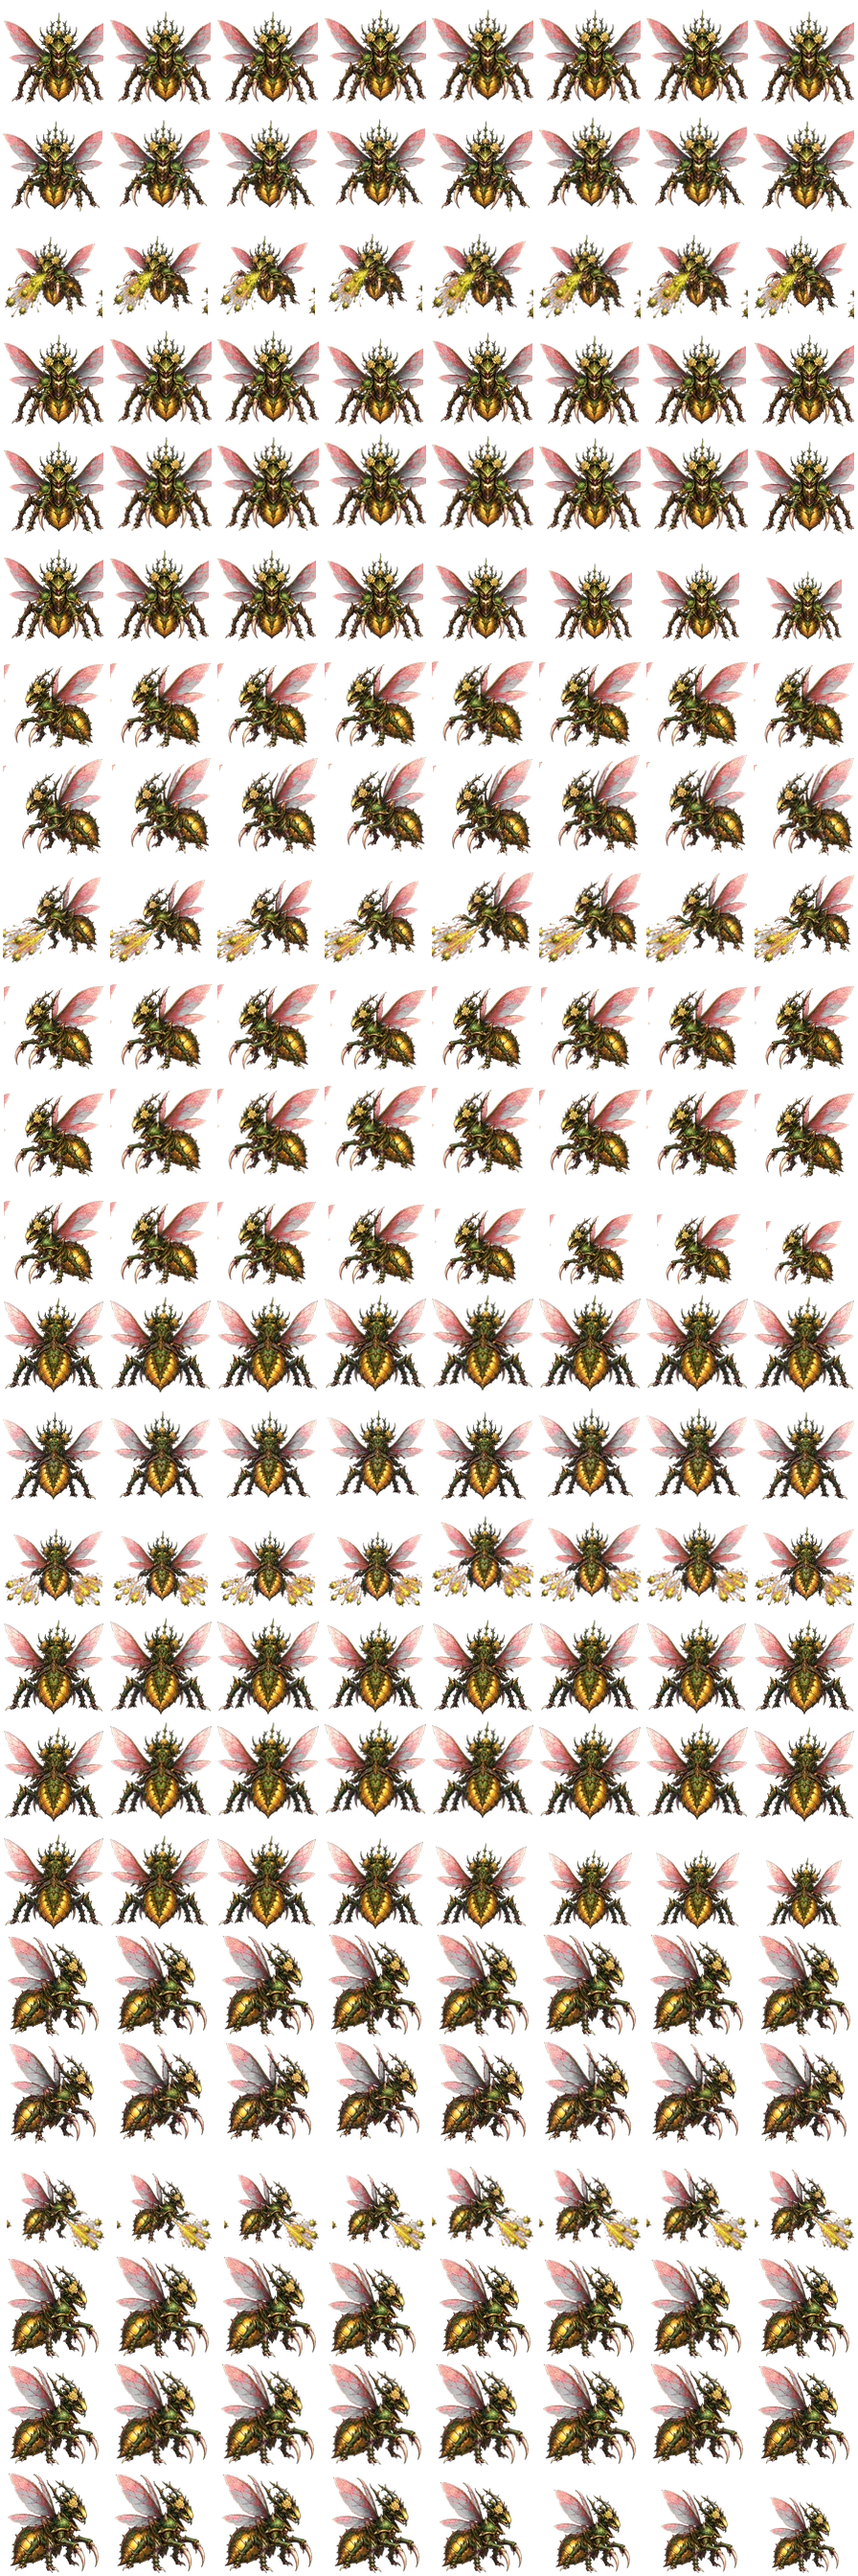
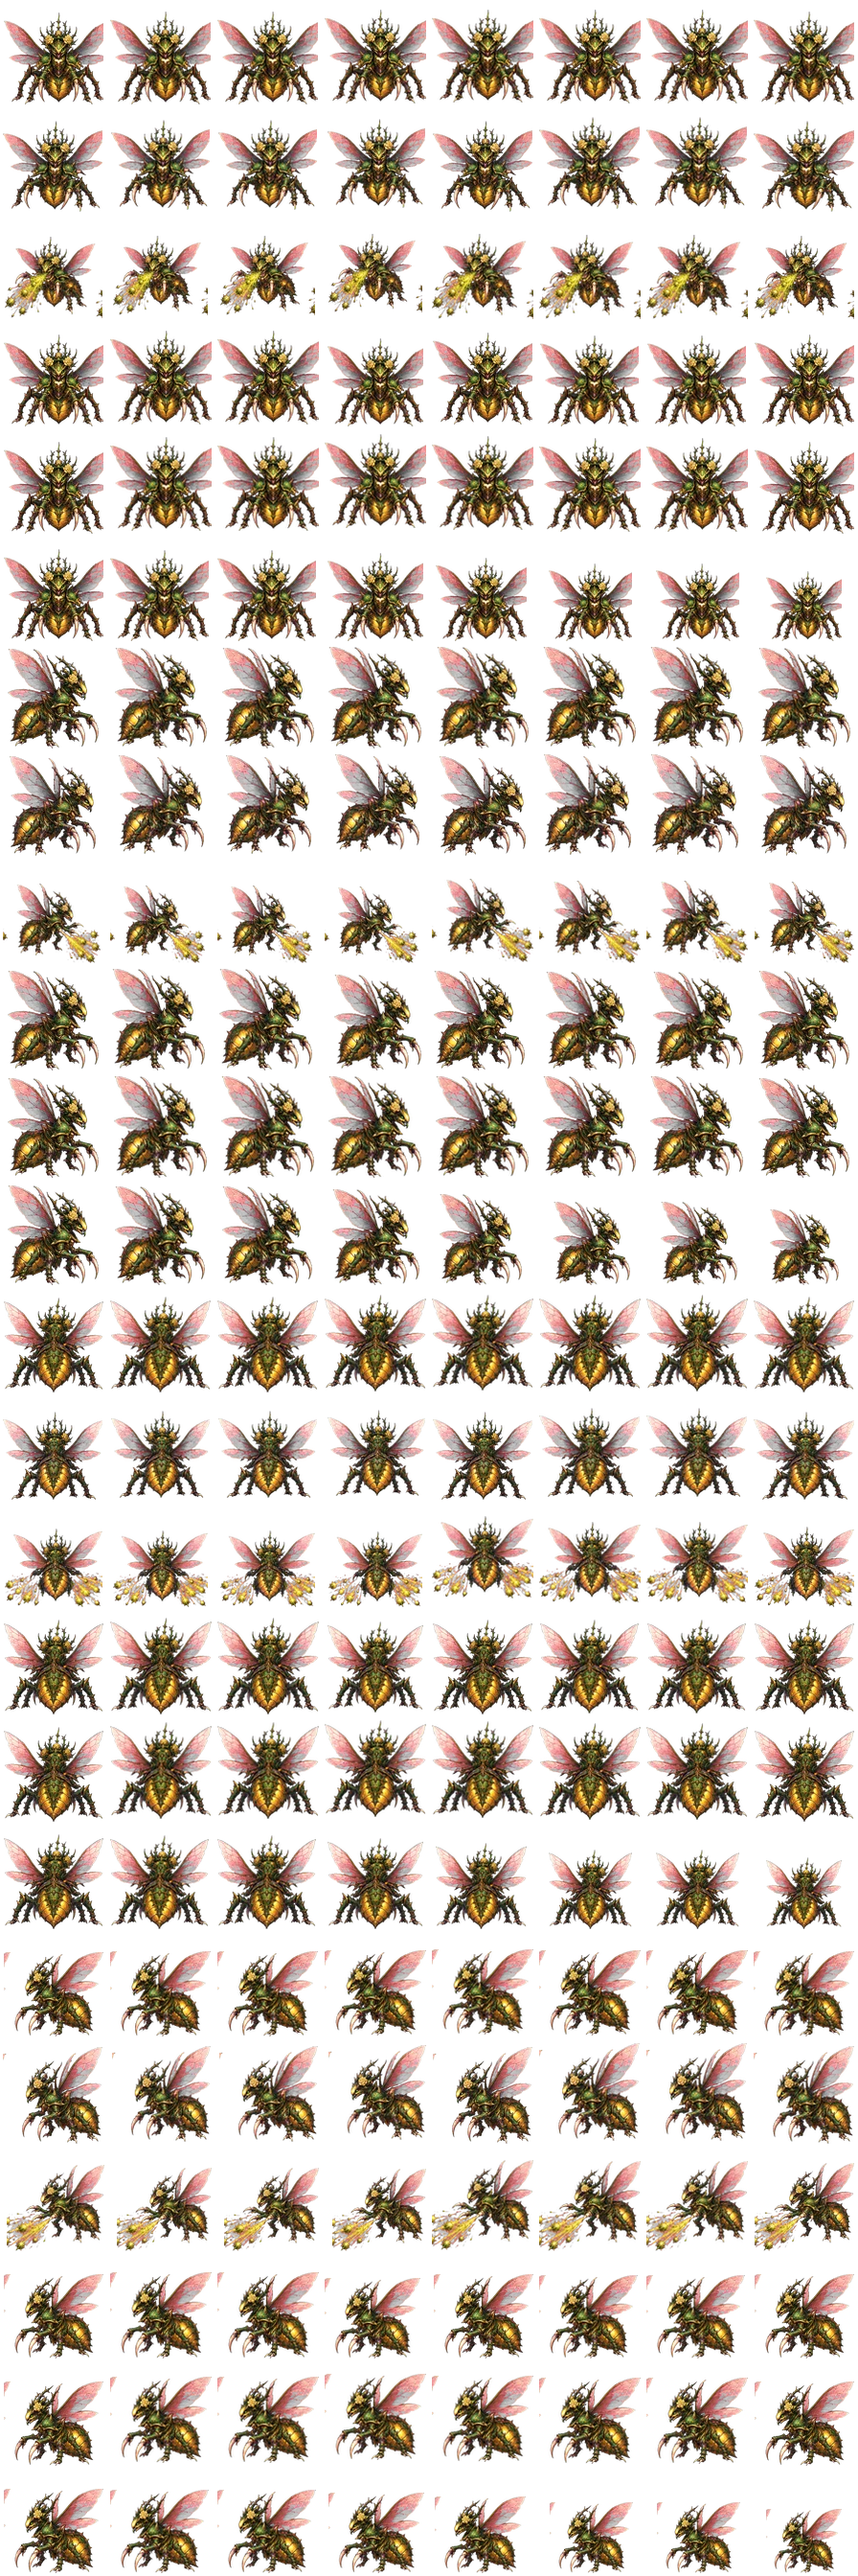
feat: minimal battle right panel; fix ch1/2 boss left-right facing
- Right side-panel now shows only the selected unit's card and its
  clickable move/attack/skill/wait actions; enemy-count header, boss
  warning panel, turn-order chips and the tutorial hint text are
  hidden there (still used elsewhere in the UI). Restart/end-turn
  moved into the battle top toolbar next to AUTO/speed controls.
- Add blightwood_sovereign (ch1 boss) and thorn_hive_queen (ch2 boss)
  to SWAPPED_SIDE_UNITS: their authored reference art used the
  character's own left/right instead of the screen's, so in battle
  they visibly faced backwards. Rebuilt just their two runtime motion
  sheets (--only), verified via check-directional-frame-bounds.py
  (43200 frames pass) — no other unit's assets touched.

Changed region(s): [[0.0, 0.75, 1.0, 1.0], [0.0, 0.25, 1.0, 0.5]]

diff --git a/js/tactics.js b/js/tactics.js
@@ -1612,8 +1612,35 @@
       forecast = '<section class="combat-forecast"><b>⚔ ' + active.p.name + ' → ' + unit.p.name + '</b><span>預估傷害 <strong>-' + estimate + '</strong>｜命中 ' + hitRate + '%</span><span>' + (multiplier > 1 ? '元素克制 ×' + multiplier : multiplier < 1 ? '元素受制 ×' + multiplier : '元素中性') + (counter ? '｜預估反擊 -' + counter : '｜無法反擊') + '</span></section>';
     } else if (unit.team === 'enemy') forecast = '<section class="combat-forecast neutral"><b>⚔ 戰術預判</b><span>先選我方幻獸再點此敵人，可查看真實傷害、命中、反擊與元素關係。</span></section>';
     dom.detail.innerHTML = '<div class="detail-head"><span class="detail-face" style="background-image:url(\'' + portrait(unit) + '\')"></span><div class="detail-title"><strong>' + unit.p.name + '</strong><small>' + elementIcon + ' ' + teamLabel + '・' + unit.p.roleLabel + '</small><span class="detail-hp"><i style="width:' + (100 * unit.hp / unit.maxHp) + '%"></i></span></div></div><div class="detail-tags"><span>' + (stage?.label || '戰鬥型態') + '</span><span>' + unitSize(unit) + '×' + unitSize(unit) + '</span><span>' + (unit.p.rarity || 'normal').toUpperCase() + '</span></div><p class="detail-passive">被動：' + passive + (statusText.length ? '<br>狀態：' + statusText.join('、') : '') + '</p>' + signature + forecast + '<div class="stat-grid"><span>力量 ' + Math.round(stat(unit, 'power')) + '</span><span>魔力 ' + Math.round(stat(unit, 'magic')) + '</span><span>防衛 ' + Math.round(stat(unit, 'defense')) + '</span><span>速度 ' + unit.p.stats.speed + '</span><span>血量 ' + unit.hp + '/' + unit.maxHp + '</span><span>移動 ' + moveRange(unit) + ' 格</span></div><h3 class="detail-skill-title">技能資訊</h3><ul class="detail-skill-list">' + skillInfo + '</ul>';
-    /* 可操作的攻擊／待機／取消移動指令改在幻獸下方的浮動小框（見 renderBattleCommand），
-       右側僅保留技能資訊參考，避免右欄擁擠。 */
+    if (unit.team !== 'ally') return;
+    unit.p.skills.forEach(function (skill, index) {
+      var button = document.createElement('button'), cooldown = unit.cooldowns[index] || 0;
+      button.className = 'skill' + (skill.kind === 'basic' ? ' basic-skill' : '') + (cooldown ? ' cooling' : ' ready') + (state.mode === 'skill' && state.skill === index ? ' active' : '');
+      button.disabled = unit.acted || cooldown > 0 || state.phase !== 'player' || state.over || state.animating;
+      var extras = (skill.status === 'freeze' ? '❄' : skill.status === 'poison' ? '☠' : skill.status === 'burn' ? '🔥' : '') + (skill.push ? '💨' : '') + (skill.pull ? '🪝' : '');
+      button.textContent = (skill.kind === 'basic' ? '⚔ 普攻．' : (index + 1) + '．') + skill.name + extras + '｜' + (skill.attackStyle === 'support' ? '輔助' : skill.attackStyle === 'area' ? '範圍' : '射程 ' + skillRange(unit, skill)) + (skill.kind === 'basic' ? '｜無冷卻' : cooldown ? '（冷卻 ' + cooldown + '）' : '');
+      button.onclick = function () { state.selected = unit.key; state.mode = 'skill'; state.skill = index; clearForecast(); audio.play('ui'); note('已選擇「' + skill.name + '」，點擊高亮的' + (skill.attackStyle === 'support' ? '我方' : '敵方') + '目標後立即施放。'); render(); }; dom.skills.appendChild(button);
+    });
+    if (state.phase === 'player' && !state.over && !unit.acted) {
+      var actions = document.createElement('div'); actions.className = 'unit-actions';
+      var move = document.createElement('button'); move.type = 'button'; move.className = 'secondary'; move.textContent = unit.moved ? '⚔ 顯示可攻擊目標' : '⌁ 直接操作'; move.disabled = state.animating;
+      move.onclick = function () { state.selected = unit.key; state.mode = 'move'; state.skill = 0; clearForecast(); audio.play('ui'); note(unit.moved ? '紅框敵人可直接點擊普攻。' : '已回到直覺操作：藍格可移動、紅框敵人可直接普攻。'); render(); };
+      actions.appendChild(move);
+      var wait = document.createElement('button'); wait.type = 'button'; wait.className = 'secondary'; wait.textContent = '🕒 待機';
+      wait.disabled = state.animating;
+      wait.onclick = function () { if (state.animating || unit.acted) return; unit.moved = true; unit.acted = true; clearForecast(); audio.play('ui'); note(unitName(unit) + ' 選擇待機。'); render(); maybeAutoEndAfterMoves(); };
+      actions.appendChild(wait);
+      if (unit.moved && unit.prevX !== undefined && !state.animating) {
+        var undo = document.createElement('button'); undo.type = 'button'; undo.className = 'secondary'; undo.textContent = '↩ 取消移動';
+        undo.onclick = function () {
+          if (state.animating || unit.acted || at(unit.prevX, unit.prevY)) return;
+          unit.x = unit.prevX; unit.y = unit.prevY; unit.moved = false; unit.prevX = undefined; unit.prevY = undefined;
+          clearForecast(); audio.play('ui'); note(unitName(unit) + ' 退回原位，可重新規劃。'); render(); focusUnit(unit, false);
+        };
+        actions.appendChild(undo);
+      }
+      dom.skills.appendChild(actions);
+    }
   }
 
   async function clickCell(x, y) {

diff --git a/tactics.html b/tactics.html
@@ -42,11 +42,11 @@
 
     <!-- 畫面二：戰鬥（獨立頁，只放戰鬥功能） -->
     <section id="screen-battle" class="screen screen-battle" hidden>
-      <header class="battle-topbar"><button id="battle-exit" class="secondary" type="button">🏳 撤退</button><b id="battle-stage-label" class="battle-stage-label">熔火裂谷</b><div class="battle-topbar-tools"><button id="auto-turn" class="auto-button" type="button">🤖 AUTO</button><button id="tower-command" class="tower-command" type="button" hidden>🛡 塔之指令</button><button id="battle-speed" class="speed-button" type="button">⚡ 1×</button><button id="animation-mode" class="speed-button" type="button" title="切換完整與快速戰鬥演出">🎬 完整</button><button id="board-zoom" class="speed-button" type="button" aria-label="切換地圖縮放">🔍 1.5×</button><div id="round-status" class="round-status">準備部署</div></div></header>
+      <header class="battle-topbar"><button id="battle-exit" class="secondary" type="button">🏳 撤退</button><b id="battle-stage-label" class="battle-stage-label">熔火裂谷</b><div class="battle-topbar-tools"><button id="auto-turn" class="auto-button" type="button">🤖 AUTO</button><button id="tower-command" class="tower-command" type="button" hidden>🛡 塔之指令</button><button id="battle-speed" class="speed-button" type="button">⚡ 1×</button><button id="animation-mode" class="speed-button" type="button" title="切換完整與快速戰鬥演出">🎬 完整</button><button id="board-zoom" class="speed-button" type="button" aria-label="切換地圖縮放">🔍 1.5×</button><button id="restart" class="secondary speed-button" type="button">↺ 重新開始</button><button id="end-turn" class="primary speed-button" type="button">結束本回合</button><div id="round-status" class="round-status">準備部署</div></div></header>
       <div class="battle-main">
         <aside class="battle-ally-panel" aria-label="我方戰隊資訊"><div class="battle-side-head"><b>◆ 我方戰隊</b><span id="battle-ally-count">0 / 0</span></div><div id="battle-ally-list" class="battle-ally-list"></div><div id="battle-team-trait" class="team-trait battle-team-trait"></div><small id="battle-objective" class="battle-objective">戰鬥目標</small></aside>
         <section class="board-wrap"><div class="battle-hud"><span class="battle-side ally-label">◆ 幻獸小隊</span><div id="turn-banner" class="turn-banner"></div><span id="enemy-label" class="battle-side enemy-label">魔物軍團 ◆</span></div><div id="deploy-toolbar" class="deploy-toolbar"><div><b>自由部署</b><span id="deploy-status">選擇幻獸，再點藍色格調整站位</span></div><div class="deploy-toolbar-actions"><button id="formation-balanced" type="button">🛡 前排陣</button><button id="formation-rear" type="button">⌁ 後衛保護</button><button id="formation-spread" type="button">◇ 分散陣</button><button id="formation-assault" type="button">🎯 集火 Boss</button><button id="formation-reset" type="button">↩ 還原</button><button id="deploy-start" class="primary" type="button">開始戰鬥</button></div></div><div class="board-viewport"><div class="board-scroll"><div id="board" class="board" aria-label="十乘二十一戰棋地圖；點選任一單位可查看資訊"></div></div></div><div id="combat-log" class="combat-log" aria-live="polite"></div></section>
-        <aside class="side-panel battle-panel"><div class="battle-enemy-overview"><div class="battle-side-head"><b>單位資訊 ◆</b><span id="battle-enemy-count">0 / 0</span></div><small id="battle-enemy-summary">點選地圖上的幻獸或魔獸查看資訊</small></div><div id="boss-warning-panel" class="boss-warning-panel" hidden aria-live="polite"></div><div id="turn-order" class="turn-order" aria-live="polite"></div><div id="unit-detail" class="unit-detail">點選地圖上的任一幻獸或魔獸查看完整資訊。</div><p class="skill-help">我方：選幻獸後，藍格可移動、紅框敵人可直接普攻；技能／待機／取消移動請從幻獸下方跳出的指令小框選擇。敵方：點選可查看能力與威脅範圍。</p><div id="skill-buttons" class="skill-buttons"></div><div class="battle-controls"><button id="restart" class="secondary">重新開始本關</button><button id="end-turn" class="primary">結束本回合</button></div></aside>
+        <aside class="side-panel battle-panel"><div class="battle-enemy-overview"><div class="battle-side-head"><b>單位資訊 ◆</b><span id="battle-enemy-count">0 / 0</span></div><small id="battle-enemy-summary">點選地圖上的幻獸或魔獸查看資訊</small></div><div id="boss-warning-panel" class="boss-warning-panel" hidden aria-live="polite"></div><div id="turn-order" class="turn-order" aria-live="polite"></div><div id="unit-detail" class="unit-detail">點選地圖上的任一幻獸或魔獸查看完整資訊。</div><p class="skill-help">我方：選幻獸後，藍格可移動、紅框敵人可直接普攻；技能／待機／取消移動請從幻獸下方跳出的指令小框選擇。敵方：點選可查看能力與威脅範圍。</p><div id="skill-buttons" class="skill-buttons"></div></aside>
       </div>
     </section>
 

diff --git a/css/tactics-screens.css b/css/tactics-screens.css
@@ -68,6 +68,8 @@
 .battle-enemy-overview{display:grid;gap:5px;padding:8px;border:1px solid #78423b;border-radius:4px;background:#2b1718}
 .battle-enemy-overview small{color:#d5aaa2;font-size:.68rem;line-height:1.35}
 .battle-panel{position:sticky;top:10px;display:flex;flex-direction:column;gap:10px;max-height:calc(100vh - 90px);overflow-y:auto}
+/* 右欄只留選中單位卡與其可用行動；單位數量標題、Boss 預警、行動序列與教學提示改在別處呈現或移除。 */
+.battle-panel .battle-enemy-overview,.battle-panel #boss-warning-panel,.battle-panel #turn-order,.battle-panel .skill-help{display:none!important}
 .battle-controls{display:grid;gap:8px}
 
 /* 戰場鏡頭：實際 20×20，視窗保留較大的可讀格子並可拖曳平移。

diff --git a/assets/animations/directional/manifest.js b/assets/animations/directional/manifest.js
@@ -1781,9 +1781,9 @@ window.TACTICAL_MOTION_MANIFEST = {
     },
     "sourceColumns": [
       0,
-      1,
+      3,
       2,
-      3
+      1
     ],
     "sourceType": "authored-four-direction",
     "source": "assets/animations/directional/sources/blightwood_sovereign-four-direction-reference-v1-alpha.png",
@@ -17117,9 +17117,9 @@ window.TACTICAL_MOTION_MANIFEST = {
     },
     "sourceColumns": [
       0,
-      1,
+      3,
       2,
-      3
+      1
     ],
     "sourceType": "authored-four-direction",
     "source": "assets/animations/directional/sources/thorn_hive_queen-four-direction-reference-v1-alpha.png",

diff --git a/scripts/build-four-direction-motion.py b/scripts/build-four-direction-motion.py
@@ -15,7 +15,11 @@ from pathlib import Path
 from PIL import Image, ImageOps
 
 ROOT = Path(__file__).resolve().parent.parent
-SOURCE_DIR = ROOT / "assets" / "animations" / "directional" / "sources"
+ACTIVE_SOURCE_DIR = ROOT / "assets" / "animations" / "directional" / "sources"
+# 原圖不屬於執行期資產，整理後封存於專案內的非部署區；保留舊位置相容性，
+# 讓工作中的舊分支仍可直接重建圖集。
+ARCHIVE_SOURCE_DIR = ROOT / "不需要的檔案" / "assets" / "animations" / "directional" / "sources"
+SOURCE_DIR = ACTIVE_SOURCE_DIR if ACTIVE_SOURCE_DIR.exists() else ARCHIVE_SOURCE_DIR
 OUTPUT_DIR = ROOT / "assets" / "animations" / "directional"
 FRAME_DIR = OUTPUT_DIR / "frames"
 VIEW_DIR = OUTPUT_DIR / "views"
@@ -68,6 +72,8 @@ SWAPPED_SIDE_UNITS = {
     "fire_lion", "fire_fox", "leaf_ear_rabbit", "rotcap_rootling", "venom_mantis",
     "fog_wisp", "gloom_turtle", "ash_hound", "tsunami_dragon", "heavy_rail_guard",
     "surveillance_orb", "argus_guardian",
+    # 第 1、2 章魔王：玩家實測回報戰鬥中左右朝向相反。
+    "blightwood_sovereign", "thorn_hive_queen",
 }
 # AI grids occasionally let an adjacent cell's tail or attack trail cross the
 # cell boundary.  Remove only the verified intrusion, before scaling it into a
